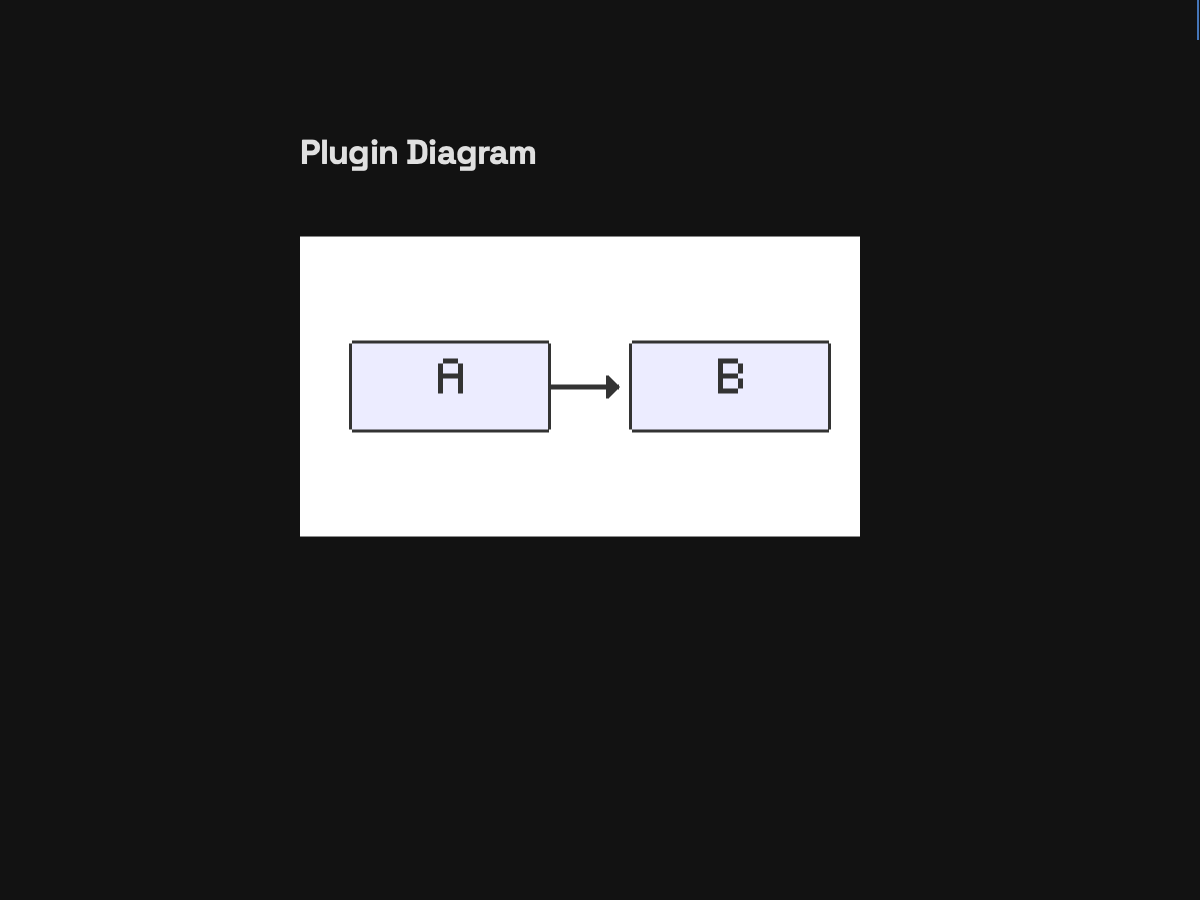
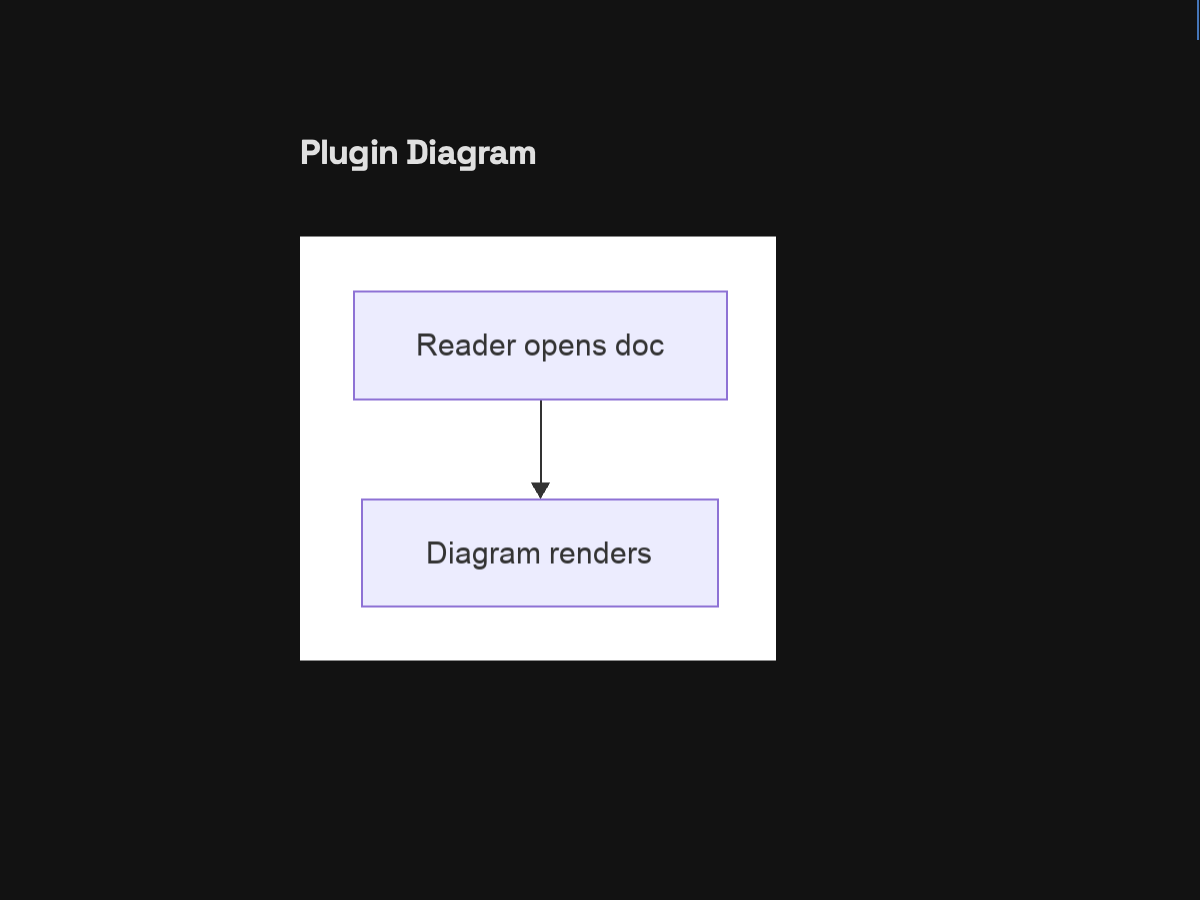
issue #323 PR-1 follow-up: reference-matched mermaid seed, Arial labels, generator

Changed region(s): [[0.2467, 0.2489, 0.74, 0.7467], [0.3083, 0.3111, 0.6167, 0.3422], [0.3083, 0.5289, 0.5858, 0.56]]

diff --git a/scripts/gen-mermaid-seed.py b/scripts/gen-mermaid-seed.py
@@ -1,0 +1,81 @@
+#!/usr/bin/env python3
+"""Regenerate test_cases/assets/mermaid-seed.png (issue #323).
+
+The seed is a faithful static mimic of a real `flowchart TD` mermaid render
+of the test_cases/plugin_mermaid.md fixture ("Reader opens doc" -->
+"Diagram renders"): vertical layout, two lavender-filled purple-bordered
+boxes, vertical arrow, smooth sans-serif labels. No mermaid renderer binary
+exists in this env, so this draws the reference geometry directly.
+
+Requires Pillow (fixture generation only, never ships): pip install pillow.
+Usage:  python3 scripts/gen-mermaid-seed.py
+"""
+
+import os
+import sys
+
+try:
+    from PIL import Image, ImageDraw, ImageFont
+except ImportError:
+    sys.exit("FAIL: gen-mermaid-seed needs Pillow (pip install pillow)")
+
+ROOT = os.path.dirname(os.path.dirname(os.path.abspath(__file__)))
+OUT = os.path.join(ROOT, "test_cases", "assets", "mermaid-seed.png")
+
+# Sampled from the reference mermaid render (/tmp/ref-mermaid.png, 476x424).
+W, H = 476, 424
+BG = (255, 255, 255)
+FILL = (236, 236, 254)  # lavender box fill (#ececfe)
+EDGE = (142, 114, 213)  # purple box border (#8e72d5)
+INK = (51, 51, 51)  # dark clean-sans labels + arrow (#333333)
+EDGE_W = 2
+
+BOX1 = (53, 54, 427, 163)  # "Reader opens doc"
+BOX2 = (61, 262, 418, 370)  # "Diagram renders"
+ARROW_X = 240
+ARROW_TOP = 164
+ARROW_HEAD_BASE = 246
+ARROW_TIP = 261
+ARROW_HALF = 9
+
+FONT_SIZE = 30
+FONT_CANDIDATES = [
+    "/System/Library/Fonts/Supplemental/Arial.ttf",
+    "/System/Library/Fonts/Helvetica.ttc",
+    "/System/Library/Fonts/HelveticaNeue.ttc",
+    "/usr/share/fonts/truetype/dejavu/DejaVuSans.ttf",
+]
+
+
+def load_font(size):
+    for path in FONT_CANDIDATES:
+        if os.path.exists(path):
+            try:
+                return ImageFont.truetype(path, size), path
+            except OSError:
+                continue
+    sys.exit("FAIL: no clean sans TTF found (%s)" % ", ".join(FONT_CANDIDATES))
+
+
+def main():
+    font, font_path = load_font(FONT_SIZE)
+    im = Image.new("RGB", (W, H), BG)
+    d = ImageDraw.Draw(im)
+    for box in (BOX1, BOX2):
+        d.rectangle(box, fill=FILL, outline=EDGE, width=EDGE_W)
+    d.line([(ARROW_X, ARROW_TOP), (ARROW_X, ARROW_HEAD_BASE)],
+           fill=INK, width=2)
+    d.polygon([(ARROW_X, ARROW_TIP),
+               (ARROW_X - ARROW_HALF, ARROW_HEAD_BASE),
+               (ARROW_X + ARROW_HALF, ARROW_HEAD_BASE)], fill=INK)
+    for box, label in ((BOX1, "Reader opens doc"),
+                       (BOX2, "Diagram renders")):
+        cx = (box[0] + box[2]) // 2
+        cy = (box[1] + box[3]) // 2
+        d.text((cx, cy), label, font=font, fill=INK, anchor="mm")
+    im.save(OUT)
+    print("wrote %s (%dx%d) font=%s" % (OUT, W, H, font_path))
+
+
+if __name__ == "__main__":
+    main()
